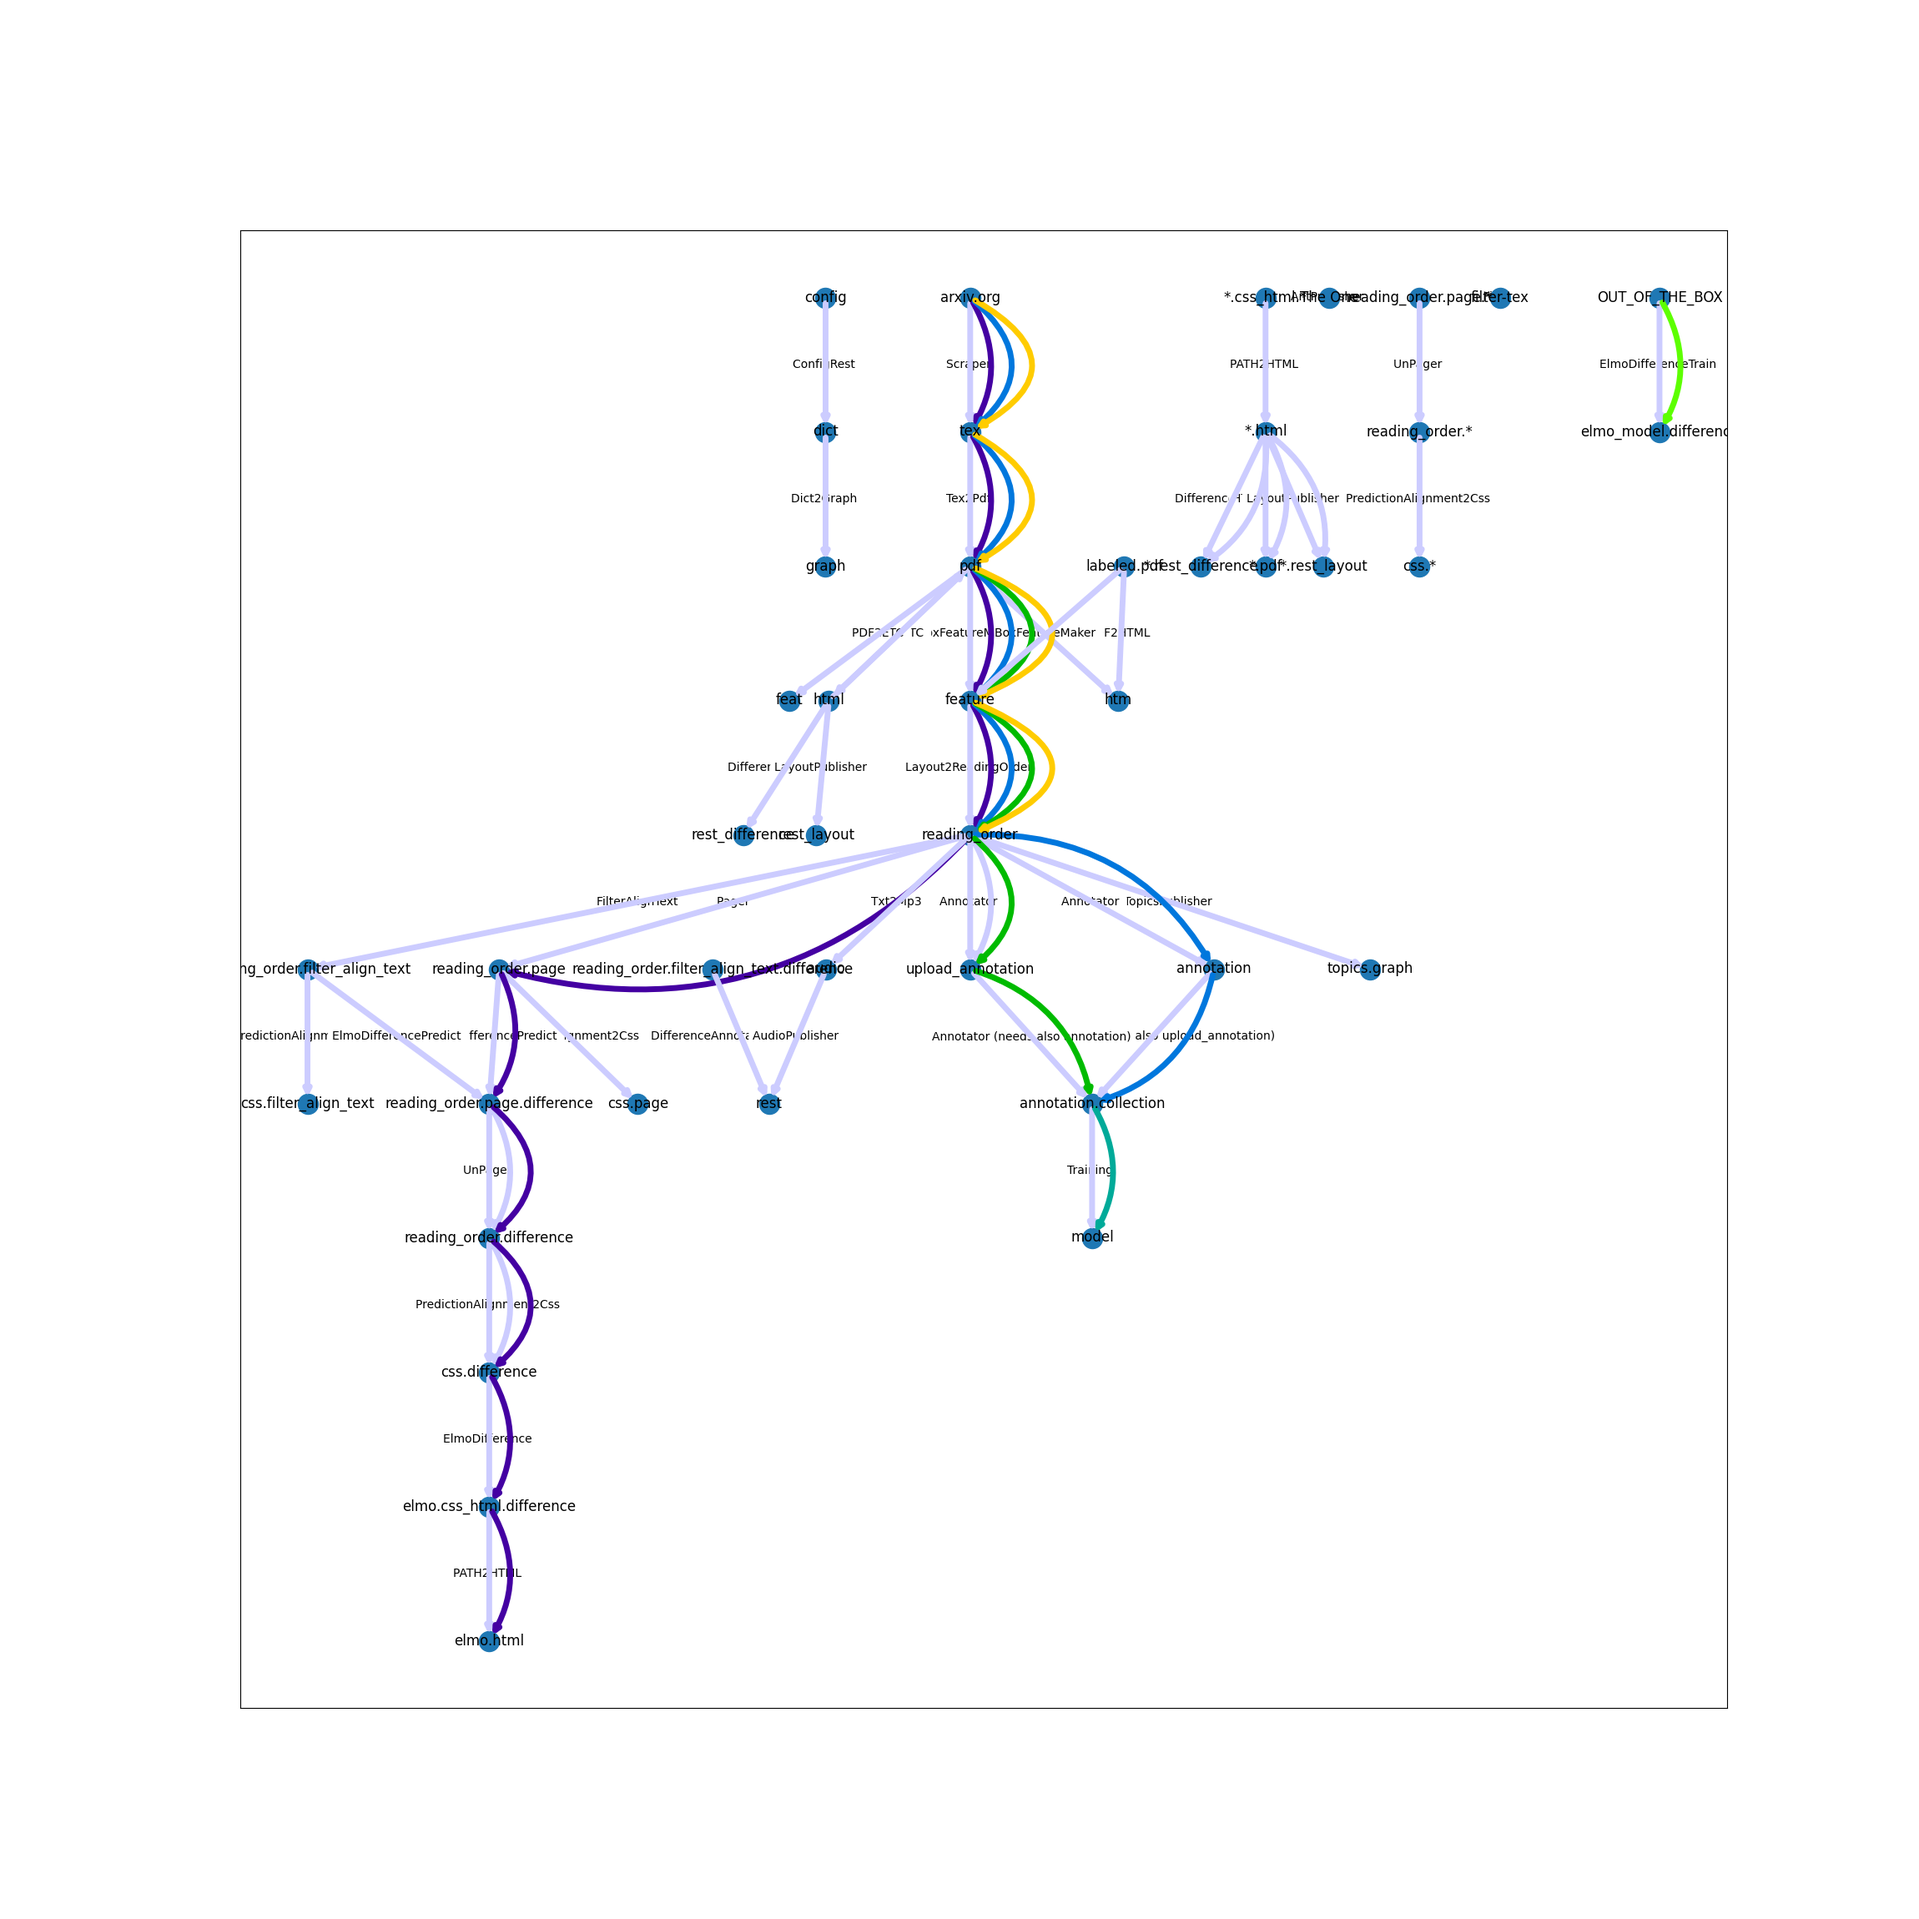
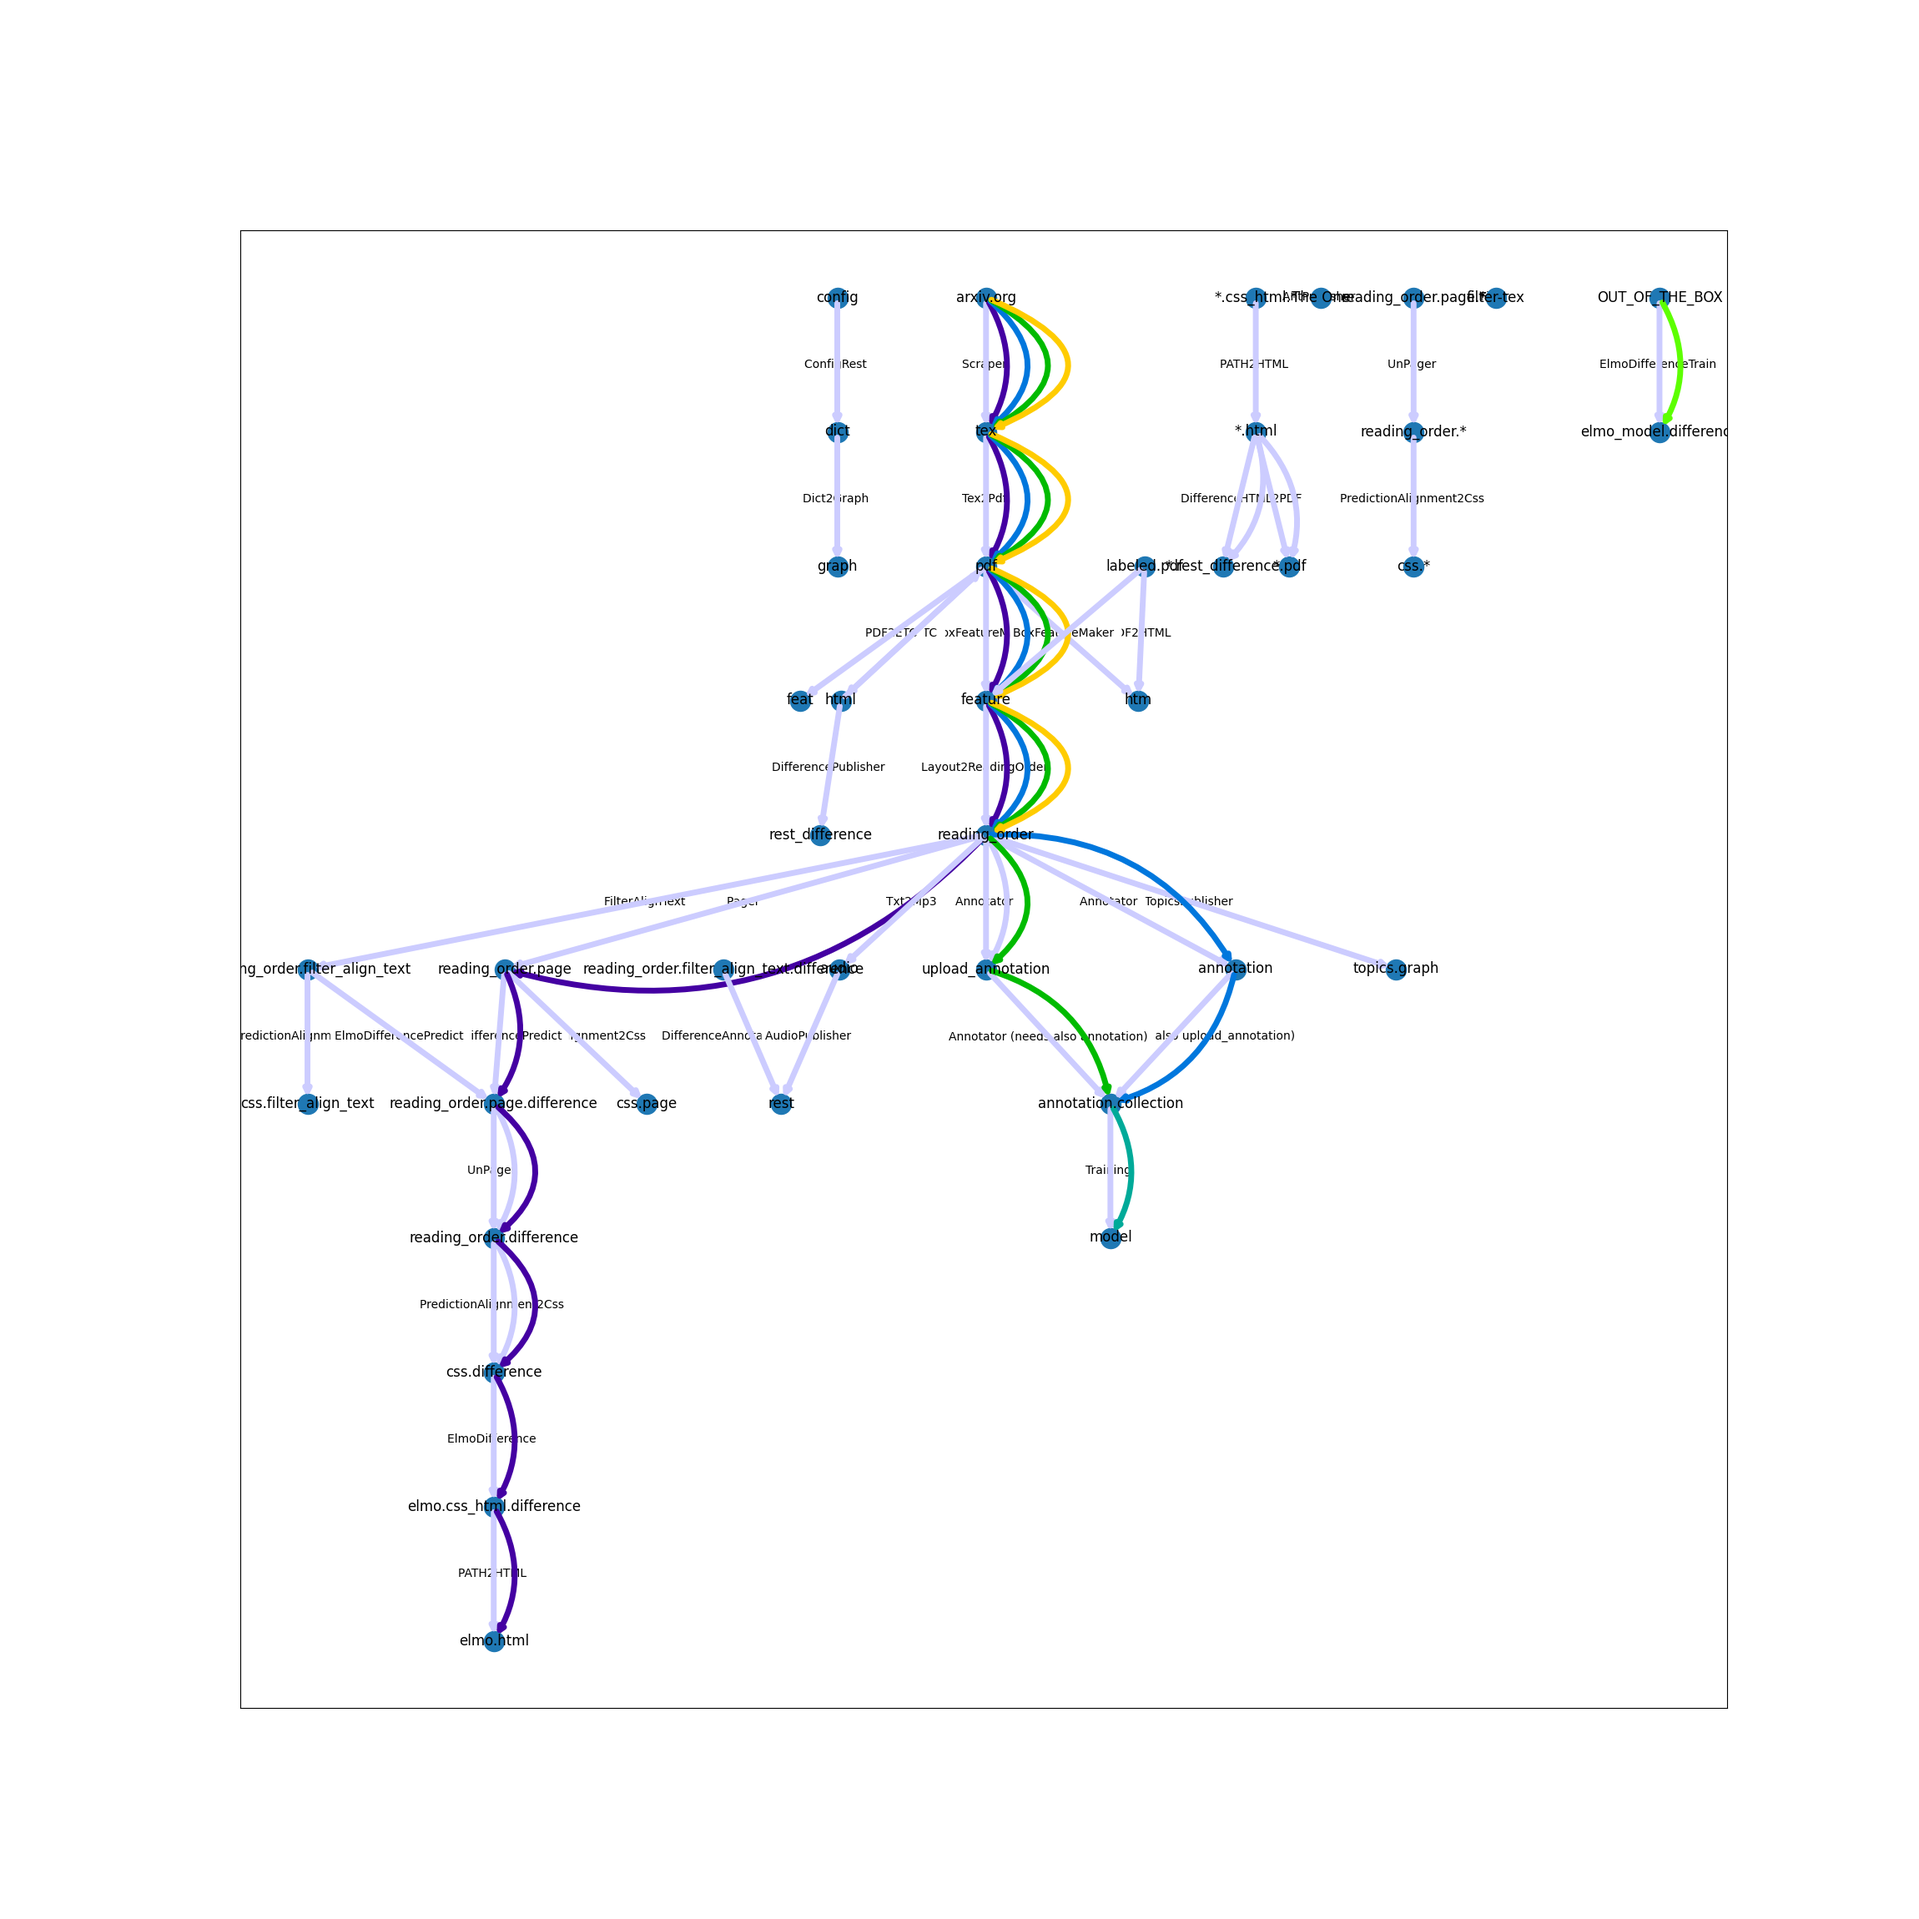
fix cache with wrong paths for uploaded files

Changed region(s): [[0.1852, 0.1543, 0.7717, 0.8643], [0.6791, 0.4939, 0.7409, 0.5248]]

diff --git a/react/layout_viewer/components/Url2Difference.tsx b/react/layout_viewer/components/Url2Difference.tsx
@@ -8,12 +8,12 @@ export default class Url2Difference extends React.Component {
         return (
             <form onSubmit={(e) => {
                 console.log(e)
-                Router.push({
-                    // @ts-ignore
-                    pathname: '/difference', query: {id: (e.target.elements.id as HTMLTextAreaElement).value}
-                })
+
+                // @ts-ignore
+                Router.push('/difference?id=' + (e.target.elements.id as HTMLTextAreaElement).value
+                )
             }}>
-            <input name="id" type="text" style={{
+                <input name="id" type="text" style={{
                     margin: "10px"
                 }}/>
                 <Button type="submit">Go</Button>

diff --git a/react/layout_viewer_made/components/Url2Difference.tsx b/react/layout_viewer_made/components/Url2Difference.tsx
@@ -8,12 +8,11 @@ export default class Url2Difference extends React.Component {
         return (
             <form onSubmit={(e) => {
                 console.log(e)
-                Router.push({
-                    // @ts-ignore
-                    pathname: '/difference', query: {id: (e.target.elements.id as HTMLTextAreaElement).value}
-                })
+                // @ts-ignore
+                Router.push('/difference?id=' + (e.target.elements.id as HTMLTextAreaElement).value
+                )
             }}>
-            <input name="id" type="text" style={{
+                <input name="id" type="text" style={{
                     margin: "10px"
                 }}/>
                 <Button type="submit">Go</Button>

diff --git a/react/layout_viewer/components/Audiobook.js b/react/layout_viewer/components/Audiobook.js
@@ -30,7 +30,7 @@ export default class Audiobook extends React.Component {
         return <>{
             this.state.exists
                 ? <AudiobookPlayer id={this.state.audioPath}></AudiobookPlayer>
-                : <div>Creating your audiobook</div>
+                : <div>Creating your audiobook...</div>
         }</>
     }
 }

diff --git a/python/helpers/cache_tools.py b/python/helpers/cache_tools.py
@@ -86,7 +86,7 @@ def dig_generator_ground_for_next_value(gen):
             return []
 
 
-def yield_cache_instead_apply(cls, f, gen, cache, filename, **kwargs):
+def yield_cache_instead_apply(cls, f, gen, cache, cache_folder, **kwargs):
     try:
         incoming_gen = dig_generator_ground_for_next_value(gen)
         if not "itertools.cycle" in str(incoming_gen):
@@ -98,7 +98,7 @@ def yield_cache_instead_apply(cls, f, gen, cache, filename, **kwargs):
 
     if values_from_future:
         future_yield_values = [
-            (value, decompress_pickle(read_cache_file(filename,
+            (value, decompress_pickle(read_cache_file(cache_folder,
                                                       value if value.endswith(
                                                           ".pdf") else config.tex_data + urllib.parse.quote_plus(
                                                           value) + ".pdf")))
@@ -119,12 +119,13 @@ def yield_cache_instead_apply(cls, f, gen, cache, filename, **kwargs):
                     if urllib.parse.quote_plus(value) in cache:
                         logging.info(f"{value} was in cache, yielding that one instead of applying")
                         cache_values_to_yield.append(
-                            (value, decompress_pickle(read_cache_file('', urllib.parse.quote_plus(value, '')))))
-                    if value in cache:
+                            (value, decompress_pickle(read_cache_file(cache_folder, urllib.parse.quote_plus(value, '')))))
+                    elif value in cache:
                         logging.info(f"{value} was in cache, yielding that one instead of applying")
                         cache_values_to_yield.append(
-                            (value, decompress_pickle(read_cache_file(filename, value))))
-                    if value in future_yield_values:
+                            (value, decompress_pickle(read_cache_file(cache_folder, value))))
+
+                    elif value in future_yield_values:
                         logging.info("value was yielded before from future cache")
                     else:
                         yield value, m
@@ -136,6 +137,7 @@ def yield_cache_instead_apply(cls, f, gen, cache, filename, **kwargs):
 
 
 def read_cache_file(path, value):
+
     try:
         with open((path + "/" if path else '') + value, 'rb') as f:
             content = f.read()
@@ -145,6 +147,7 @@ def read_cache_file(path, value):
         with open(path + "/" + urllib.parse.quote_plus(value), 'rb') as f:
             content = f.read()
         return content
+
 
 
 def read_cache(path):
@@ -166,7 +169,7 @@ def read_cache(path):
     contents = os.listdir(path)
 
     new_cache = [
-        urllib.parse.unquote_plus(key) for key in contents
+        key for key in contents
     ]
 
     return new_cache
@@ -217,6 +220,7 @@ def configurable_cache(
             yield_apply = not _from_cache_only and not _from_path_glob
             append_cache = True  # not _dont_append_to_cache and not _from_path_glob
             filter_by_cache = not _from_function_only
+            cache = read_cache(filename)
 
             if _from_path_glob:
                 if not os.path.isdir(filename):
@@ -232,10 +236,9 @@ def configurable_cache(
                         logging.info(f"Found nothing via glob {_from_path_glob} from {os.getcwd()}")
                     yield from [(p, {}) for p in cache]
                 else:
-                    yield from apply(cls, original_func, source, [], filter_by_cache, append_cache, filename, **kwargs)
+                    yield from apply(cls, original_func, source, cache, filter_by_cache, append_cache, filename, **kwargs)
 
             else:
-                cache = read_cache(filename)
 
                 if yield_cache:
                     yield from unroll_cache(filename, cache)

diff --git a/python/core/RestPublisher/RestPublisher.py b/python/core/RestPublisher/RestPublisher.py
@@ -77,9 +77,7 @@ class RestPublisher(PathSpec, react):
         self.port = port
         self.resource = resource
         self.contents = []
-        self.logger.warning("publishing")
-
-        self.logger.warning(f"Creating service for {self.resource.title}")
+        self.logger.warning(f"REST-publishing {self.resource.title}")
 
         try:
             with open("/".join([self.npm_resources, self.resource.Title + "Service.ts"]), "w") as f:
@@ -87,19 +85,16 @@ class RestPublisher(PathSpec, react):
                     self.server_resource_code.format(**self.resource, port=self.port, url=self.url, **self.resource.access))
         except:
             logging.error(f"Could not create javascript resource file {self.resource.Title}")
-        self.logger.warning(f"Creating components for {self.resource.title}")
 
         self.write_components("/".join([self.npm_components, self.resource.title + ".tsx"]))
-
-        self.logger.warning(f"Creating model object for {self.resource.Title}")
-
-        self.logger.warning(f"Creating page for {self.resource.title}")
 
         try:
             with open("/".join([self.npm_pages, self.resource.title + ".tsx"]), "w") as f:
                 f.write(self.page_code.format(**self.resource, port=self.port, url=self.url, **self.resource.access))
         except:
             logging.error(f"Could not write {self.resource.title}.tsx")
+
+
     def __iter__(self, incoming):
         if not self.contents:
             self.contents = list(incoming)

diff --git a/python/tests/pipeline_tests.py b/python/tests/pipeline_tests.py
@@ -13,6 +13,8 @@ os.system(f"rm -rf {core.config.cache}")
 from backend import *
 
 run_extra_threads()
+time.sleep(10)
+
 logging.basicConfig(stream=sys.stdout, level=logging.DEBUG)
 
 import unittest
@@ -20,6 +22,7 @@ import unittest
 
 class TestRest(unittest.TestCase):
     TEST_PDF = '.layouteagle/pdfs/9912/math-ph9912012.pdf'
+    TEST_URL ="https://www.differencebetween.com/what-is-the-difference-between-care-and-concern/"
 
     def make_rest_args(self, *args):
         Req = namedtuple("req", ['media'])
@@ -37,8 +40,23 @@ class TestRest(unittest.TestCase):
         ElmoDifferenceQueueRest.on_post(*rest_vals)
         self.check_result(*rest_vals)
 
-    def test_layout(self):
+    def test_layout1(self):
         rest_vals = self.make_rest_args(self.TEST_PDF)
+        UploadAnnotationQueueRest.on_post(*rest_vals)
+        self.check_result(*rest_vals)
+
+    def test_layout2(self):
+        rest_vals = self.make_rest_args(self.TEST_PDF)
+        UploadAnnotationQueueRest.on_post(*rest_vals)
+        self.check_result(*rest_vals)
+
+    def test_layout_scrape_web1(self):
+        rest_vals = self.make_rest_args(self.TEST_URL)
+        UploadAnnotationQueueRest.on_post(*rest_vals)
+        self.check_result(*rest_vals)
+
+    def test_layout_scrape_web2(self):
+        rest_vals = self.make_rest_args(self.TEST_URL)
         UploadAnnotationQueueRest.on_post(*rest_vals)
         self.check_result(*rest_vals)
 

diff --git a/python/core/RestPublisher/react.py b/python/core/RestPublisher/react.py
@@ -23,8 +23,6 @@ class react:
 
         installing = not os.path.isdir(npm_project)
 
-        cwd = os.getcwd()
-
         if installing:
             parts = ["yarn", "create", "next-app", npm_project,  "--example", "with-three-js"]
             subprocess.check_call(parts, stdout=sys.stdout,
@@ -43,13 +41,13 @@ class react:
                                                                                                 target=npm_project)
             self.logger.warning(f"Setting up sync")
             os.popen (r"rsync -r {source}/* {target}".format(source=patch_project, target=npm_project))
-            print (command)
-            print (shlex.split(command))
+            logging.debug (command)
+            logging.debug (shlex.split(command))
             p = os.popen(command)
             sleep(2)
             sync_is_running = True
 
-        self.logger.warning(f"Installing app to {npm_project}")
+        self.logger.warning(f"Hot-Installing app to {npm_project}")
 
 
 

diff --git a/python/layout/annotation_thread.py b/python/layout/annotation_thread.py
@@ -1,4 +1,5 @@
 import itertools
+import logging
 
 from layout.model_helpers import repaint_image_from_labels
 from core.event_binding import RestQueue
@@ -74,7 +75,7 @@ model_pipe = ant(
 )
 
 upload_pipe = ant(
-    "pdf", "annotation.collection",
+    "arxiv.org", "annotation.collection",
     via="upload_annotation",
     num_labels=config.NUM_LABELS,
     model_path=full_model_path,
@@ -83,8 +84,8 @@ upload_pipe = ant(
 
 
 def annotate_uploaded_file(path_to_pdf, service_id=None):
-    print(f"Working on {path_to_pdf} {service_id}")
-    return list(upload_pipe(metaize([path_to_pdf]), service_id=service_id))
+    logging.info(f"Working on {path_to_pdf} {service_id}")
+    return next(upload_pipe(metaize([path_to_pdf]), service_id=service_id), None)
 
 
 UploadAnnotationQueueRest = RestQueue(

diff --git a/python/core/StandardConverter/Scraper.py b/python/core/StandardConverter/Scraper.py
@@ -40,7 +40,11 @@ class Scraper(PathSpec):
     def __call__(self, i_url):
         for url, m in i_url:
             if url.startswith('http') and regex.match(self.http_regex, url):
-                path = f"{config.hidden_folder}/pdfs/{hashval(url)}.pdf"
+                id = hashval(url)+".pdf"
+                path = f"{config.hidden_folder}pdfs/{id}"
+                if os.path.exists(path):
+                    yield path, m
+
                 path = path.replace("(", "")
                 path = path.replace(")", "")
                 m['url'] = url

diff --git a/python/core/config.py b/python/core/config.py
@@ -70,7 +70,7 @@ torch.cuda.empty_cache()
 try:
     free_gpu_cache()
 except Exception as e:
-    logging.error("No cuda/gpu available!")
+    logging.info("No gpu available!", exc_info=True)
 
 feature_fuzz_ranges = (-0.02, 0.04, 0.02),
 sys.path.append(os.getcwd())
